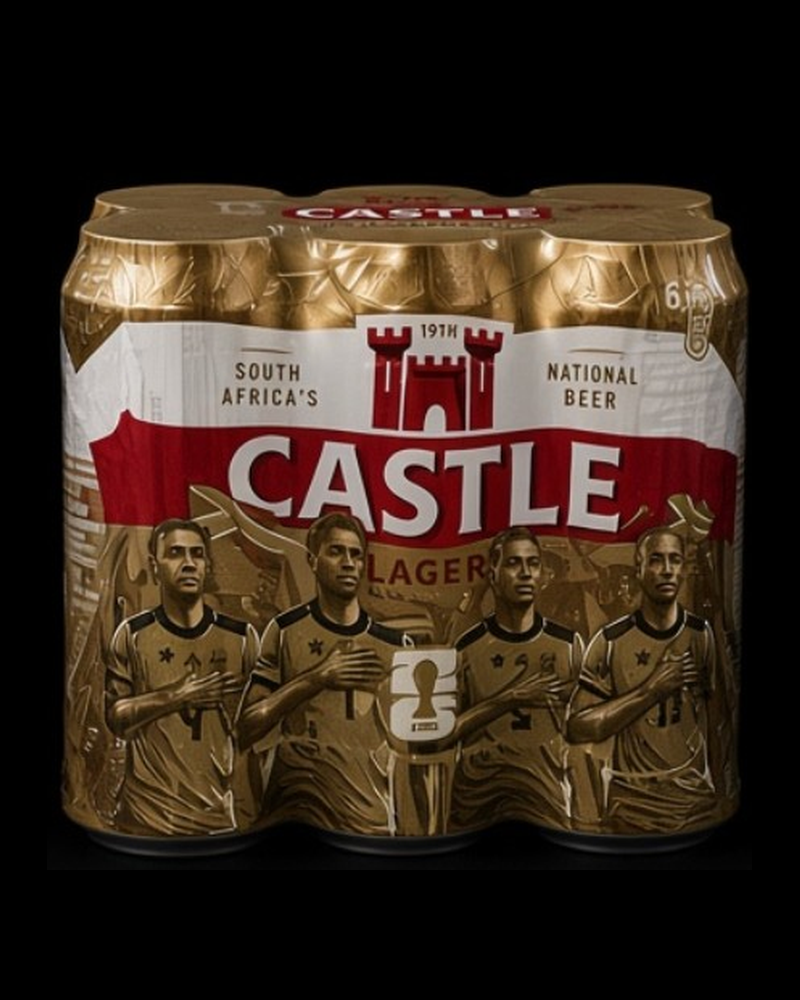
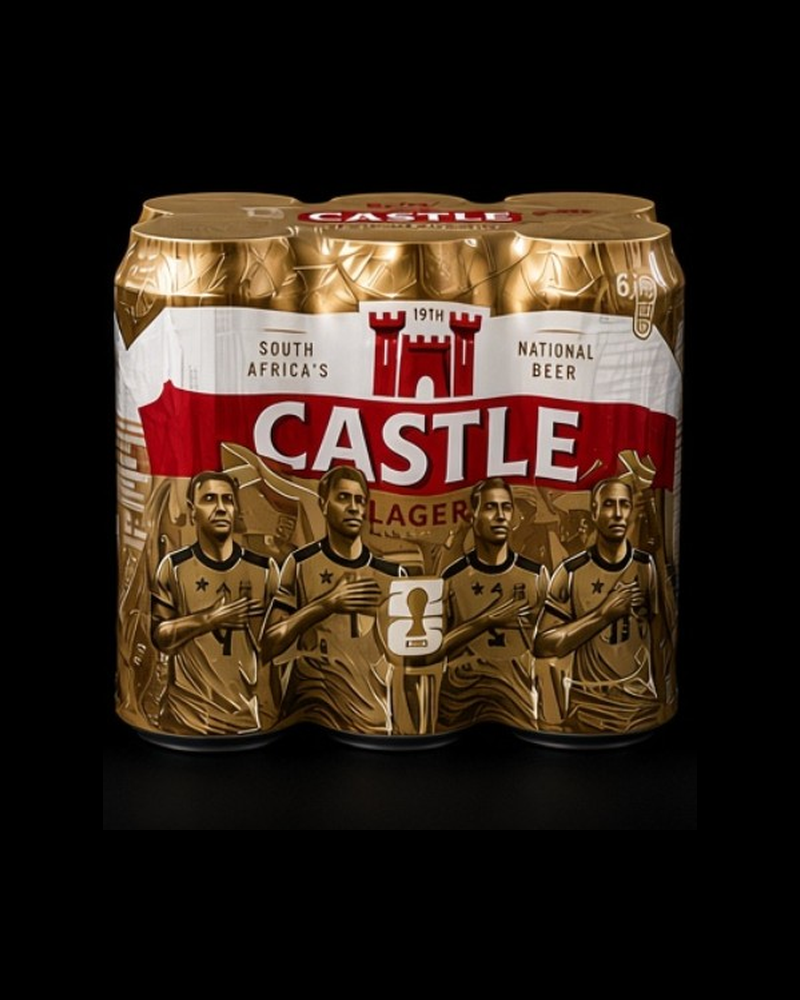
Add files via upload

diff --git a/style.css b/style.css
@@ -3033,3 +3033,50 @@ body.cart-open{overflow:hidden}
   object-fit: contain;
   background: #02070d;
 }
+
+/* ================================================================
+   V3.38 — UNIFIED PRODUCT IMAGE FRAMES
+   Shop, category pages and Current Specials now use the same
+   responsive product-media footprint so product images never
+   appear oversized simply because the source image has different
+   dimensions. Images remain contained and keep their black artwork
+   backgrounds where supplied.
+   ================================================================ */
+.product-placeholder.product-media{
+  height:330px;
+  width:100%;
+  display:flex;
+  align-items:center;
+  justify-content:center;
+  overflow:hidden;
+  background:#050505 !important;
+  border-radius:18px 18px 0 0;
+}
+.product-placeholder.product-media .product-image,
+.product-media .product-image{
+  display:block;
+  width:100%;
+  height:100%;
+  max-width:100%;
+  max-height:100%;
+  object-fit:contain !important;
+  object-position:center center;
+  background:#050505 !important;
+  margin:0;
+  padding:0;
+  border:0;
+}
+@media(max-width:900px){
+  .product-placeholder.product-media{height:300px}
+}
+@media(max-width:520px){
+  .product-placeholder.product-media{
+    height:245px;
+    border-radius:14px 14px 0 0;
+  }
+  .category-page .product-placeholder.product-media{height:245px}
+}
+/* Keep the existing Specials sizing declaration visually identical to Shop. */
+.specials-product-grid .product-media{height:330px}
+@media(max-width:900px){.specials-product-grid .product-media{height:300px}}
+@media(max-width:520px){.specials-product-grid .product-media{height:245px}}
